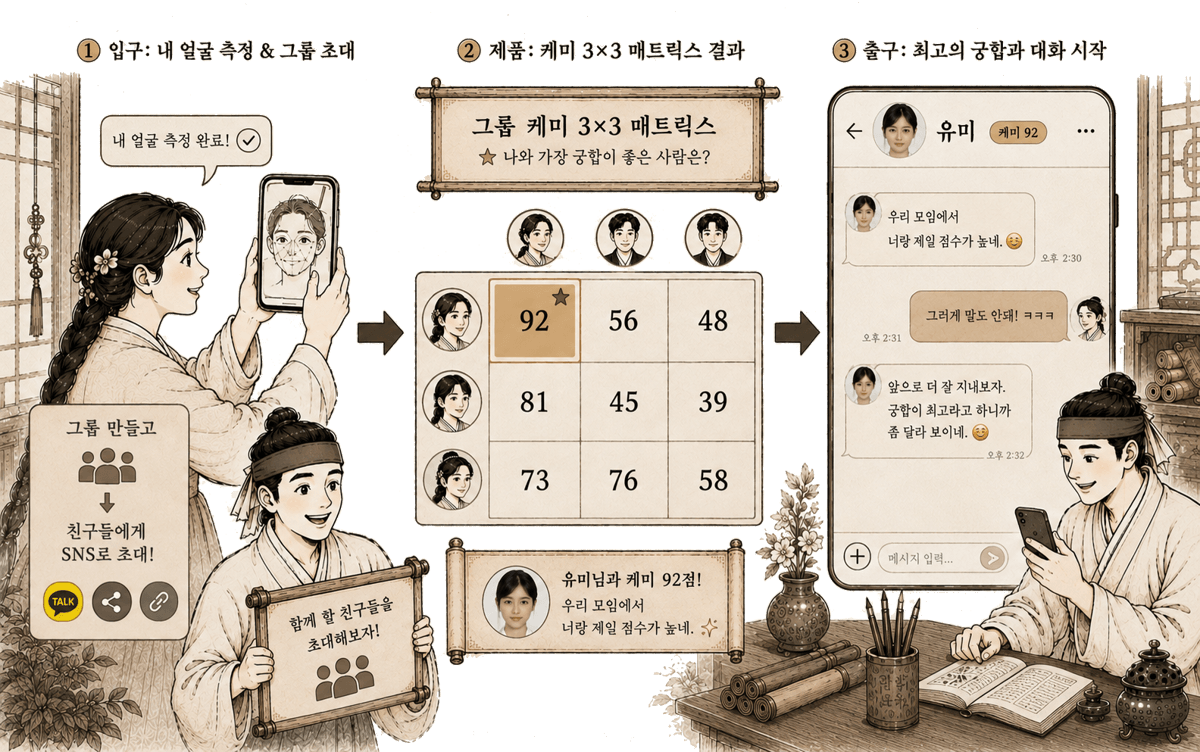
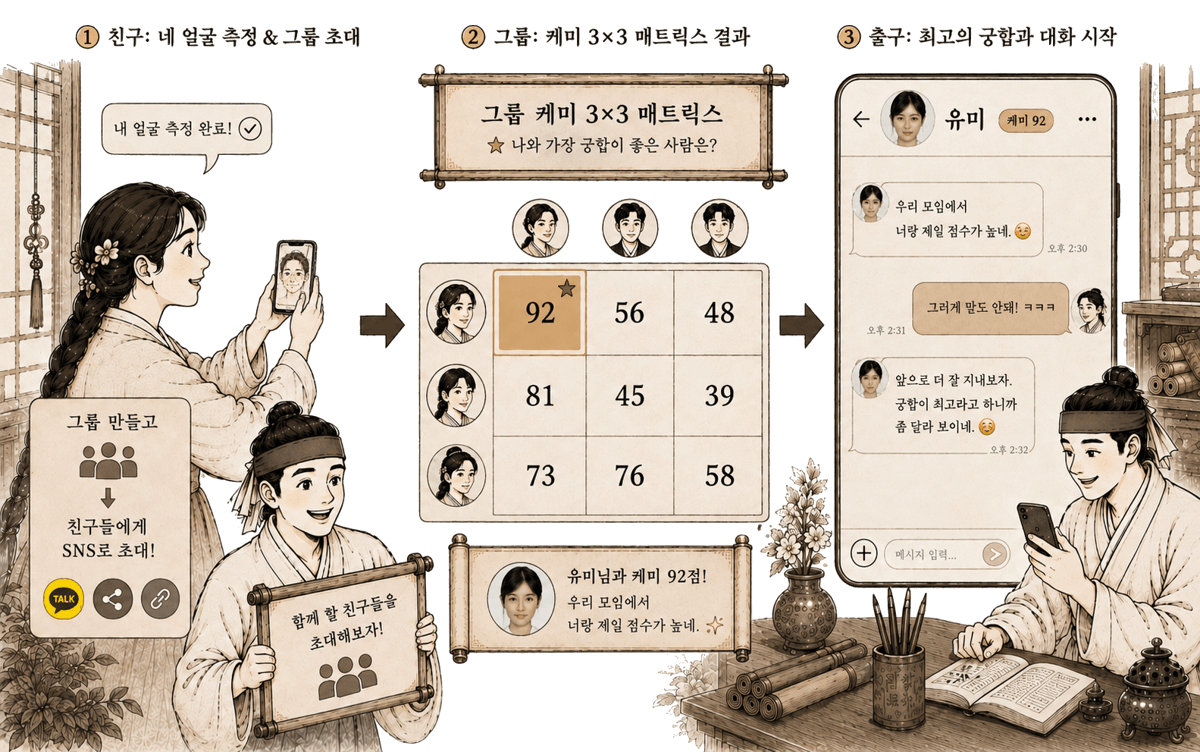
fix(온보딩): 원격 설정을 부팅 중에 미리 조회하고 짧게 기다린다
조회를 MainApp.initState 에서 시작하고 그 다음 프레임에 온보딩을 띄우고
있었다. 요청 시작과 화면 표시 사이가 1 프레임이라, 응답이 아무리 빨라도
첫 장의 제목·이미지가 fallback 으로 나갔다.

- 조회를 _bootstrap 의 initHive 뒤로 옮겨 남은 init 과 병렬로 돌린다
  (응답의 Hive 캐시 기록이 걸려 있어 initHive 뒤여야 한다).
- checkForceUpdate() 를 메모이즈 — 부팅과 강제 업그레이드 게이트가 같은
  Future 를 쓰므로 요청은 여전히 1회.
- AppConfigService.ready 노출. 온보딩은 표시 직전 500ms 만 기다리고,
  넘기면 그냥 띄운다 (네트워크에 인질로 잡지 않는다).

첫 장 이미지도 코퍼스 버전에 따라 갈린다 — v1 확정이면 onboarding0.png,
그 외에는 onboarding1.png (제목의 titleV1 과 같은 규칙).

diff --git a/flutter/lib/presentation/widgets/onboarding_intro.dart b/flutter/lib/presentation/widgets/onboarding_intro.dart
@@ -27,6 +27,7 @@ const _kPageColors = [
 const _kPages = [
   _OnboardingPageData(
     asset: 'assets/images/onboarding1.png',
+    assetV1: 'assets/images/onboarding0.png',
     title: '관상으로 풀어보는\n친구 만들기',
     titleV1: 'AI로 얼굴의 특징을 측정하고\n학문적으로 그 의미를 해석합니다.',
     body: '우리 그룹의 케미를 한눈에 보고\n새로운 대화의 계기를 만들어보세요.',
@@ -69,7 +70,8 @@ const double _kRevealVerticalPosition = 0.75;
 const double _kTopBarHeight = 48;
 
 /// 온보딩 안내 — 전체 흐름 → 관상 → 궁합 → 케미 4페이지 인트로.
-/// 이미지는 `onboarding1.png` ~ `onboarding4.png` 를 순서대로 쓴다.
+/// 이미지는 `onboarding1.png` ~ `onboarding4.png` 를 순서대로 쓰되, 코퍼스가
+/// v1 로 확정된 경우 첫 장만 `onboarding0.png` 로 갈린다 ([_OnboardingPageData.resolvedAsset]).
 /// `warm` 은 [_kPageColors] 의 짝을 따른다 — index 짝수(cream·shell)가 true,
 /// 홀수(흰 배경)가 false. **페이지를 재배열하면 이 교대를 다시 맞출 것.**
 /// MainApp 이 첫 프레임 뒤에 호출한다.
@@ -386,7 +388,7 @@ class _OnboardingPage extends StatelessWidget {
                   const EdgeInsets.symmetric(horizontal: _imageHInset),
               child: ClipRRect(
                 borderRadius: BorderRadius.circular(AppRadius.xl),
-                child: Image.asset(data.asset, fit: BoxFit.contain),
+                child: Image.asset(data.resolvedAsset, fit: BoxFit.contain),
               ),
             ),
           ),
@@ -437,6 +439,9 @@ class _OnboardingPage extends StatelessWidget {
 
 class _OnboardingPageData {
   final String asset;
+
+  /// v1 코퍼스일 때 [asset] 대신 쓰는 이미지. null 이면 버전과 무관하게 [asset].
+  final String? assetV1;
   final String title;
 
   /// v1 코퍼스일 때 [title] 대신 쓰는 제목. null 이면 버전과 무관하게 [title].
@@ -451,6 +456,7 @@ class _OnboardingPageData {
 
   const _OnboardingPageData({
     required this.asset,
+    this.assetV1,
     required this.title,
     this.titleV1,
     this.chips = const [],
@@ -461,10 +467,13 @@ class _OnboardingPageData {
   /// 원격 설정(`app_config.{ios,android}_narrative_version`)이 정한 코퍼스
   /// 버전에 맞는 제목. v1 제목은 v1 이라고 확인됐을 때만 쓴다 —
   /// 확정 전 기본값은 v2 다 (`AppConfigService.narrativeVersion`).
-  String get resolvedTitle =>
-      AppConfigService.instance.narrativeVersion == NarrativeVersion.v1
-          ? (titleV1 ?? title)
-          : title;
+  String get resolvedTitle => _isV1 ? (titleV1 ?? title) : title;
+
+  /// [resolvedTitle] 과 같은 규칙으로 고른 이미지.
+  String get resolvedAsset => _isV1 ? (assetV1 ?? asset) : asset;
+
+  static bool get _isV1 =>
+      AppConfigService.instance.narrativeVersion == NarrativeVersion.v1;
 }
 
 /// 무료·유료 표기 chip — §3.3 단일톤. 배경색 페이지 위에서도 보이도록

diff --git a/flutter/lib/data/services/app_config_service.dart b/flutter/lib/data/services/app_config_service.dart
@@ -23,12 +23,17 @@ class AppConfigService {
   NarrativeVersion? _narrativeVersion;
   bool _cacheRead = false;
 
+  /// 진행 중이거나 이미 끝난 조회. 호출부가 둘(부팅 · 강제 업그레이드 게이트)
+  /// 이라 요청이 두 번 나가지 않도록 첫 호출의 Future 를 재사용한다.
+  Future<ForceUpdateResult>? _check;
+
   /// 서술 코퍼스 버전. `checkForceUpdate()` 가 같은 조회에서 갱신한다.
   ///
-  /// 조회는 네트워크라 수백 ms 가 걸리는데 온보딩은 첫 프레임 직후에 뜬다
-  /// (`app.dart` 의 `addPostFrameCallback`). 마지막으로 받은 값을 Hive 에
-  /// 남겨 다음 실행부터 그 값으로 시작하지만, **최초 설치 직후 첫 실행**은
-  /// 캐시가 없어 어느 쪽인지 알 수 없다.
+  /// 조회는 네트워크라 수백 ms 가 걸린다. 부팅 중(`main.dart` 의 `_bootstrap`)
+  /// 에 미리 띄우고 온보딩은 표시 직전에 [ready] 를 짧게 기다리지만, 응답이
+  /// 그 예산을 넘기면 여전히 확정 전이다. 마지막으로 받은 값을 Hive 에 남겨
+  /// 다음 실행부터 그 값으로 시작하고, **최초 설치 직후 첫 실행**만 캐시가
+  /// 없어 어느 쪽인지 알 수 없다.
   ///
   /// 확정 전 기본값은 **v2** 다. v1 은 사진 속 상대의 앞으로의 행동을
   /// 단정하고 미래를 말하는 서술이라, 조회가 안 될 때 그쪽이 나가는 것이
@@ -61,9 +66,20 @@ class AppConfigService {
       ? CompatVersion.v2
       : CompatVersion.v1;
 
+  /// 조회가 끝날 때까지 (성공·실패 무관). 아직 시작 전이면 즉시 완료.
+  /// 원격 값에 따라 화면이 갈리는 곳이 조회를 짧게 기다릴 때 쓴다 —
+  /// 기다리는 쪽이 반드시 자기 타임아웃을 걸 것. 이 Future 자체는
+  /// [checkForceUpdate] 의 2초 예산이 끝나야 완료된다.
+  Future<void> get ready async {
+    await _check;
+  }
+
   /// 내 buildNumber < 플랫폼별 min_build 면 required=true.
   /// 조회 실패·타임아웃은 fail-open (네트워크 사정으로 앱을 잠그지 않는다).
-  Future<ForceUpdateResult> checkForceUpdate() async {
+  /// 두 번째 호출부터는 첫 호출의 결과를 그대로 돌려준다 (요청 1회).
+  Future<ForceUpdateResult> checkForceUpdate() => _check ??= _fetch();
+
+  Future<ForceUpdateResult> _fetch() async {
     const pass = (required: false, notice: null);
     try {
       final row = await Supabase.instance.client
@@ -104,11 +120,12 @@ class AppConfigService {
     }
   }
 
-  /// 테스트 전용 — 메모리 상태만 날려 "다음 실행" 을 흉내 낸다.
+  /// 테스트 전용 — 메모리 상태(조회 결과 포함)만 날려 "다음 실행" 을 흉내 낸다.
   @visibleForTesting
   void debugResetNarrativeVersion() {
     _narrativeVersion = null;
     _cacheRead = false;
+    _check = null;
   }
 
   /// 테스트 전용 — 원격 row 적용 경로를 네트워크 없이 부른다.

diff --git a/flutter/test/onboarding_narrative_variant_test.dart b/flutter/test/onboarding_narrative_variant_test.dart
@@ -1,0 +1,64 @@
+// 온보딩 첫 장 — 원격 코퍼스 버전에 따라 제목과 이미지가 갈린다.
+// v1 확정이면 onboarding0.png, 그 외(v2·확정 전)는 onboarding1.png.
+//
+// 실행: flutter test test/onboarding_narrative_variant_test.dart
+
+import 'package:flutter/material.dart';
+import 'package:flutter_test/flutter_test.dart';
+
+import 'package:facely/data/services/app_config_service.dart';
+import 'package:facely/presentation/widgets/onboarding_intro.dart';
+
+Set<String> _assets(WidgetTester tester) => tester
+    .widgetList<Image>(find.byType(Image))
+    .map((i) => i.image)
+    .whereType<AssetImage>()
+    .map((i) => i.assetName)
+    .toSet();
+
+Future<void> _openIntro(WidgetTester tester) async {
+  await tester.pumpWidget(
+    MaterialApp(
+      home: Builder(
+        builder: (ctx) => Scaffold(
+          body: TextButton(
+            onPressed: () => showOnboardingIntro(ctx),
+            child: const Text('open'),
+          ),
+        ),
+      ),
+    ),
+  );
+  await tester.tap(find.text('open'));
+  for (var i = 0; i < 5; i++) {
+    await tester.pump(const Duration(milliseconds: 200));
+  }
+}
+
+void main() {
+  tearDown(() => AppConfigService.instance.debugResetNarrativeVersion());
+
+  testWidgets('확정 전(=v2 기본값) — onboarding1.png', (tester) async {
+    await _openIntro(tester);
+    expect(_assets(tester), contains('assets/images/onboarding1.png'));
+    expect(_assets(tester), isNot(contains('assets/images/onboarding0.png')));
+  });
+
+  testWidgets('v1 확정 — onboarding0.png', (tester) async {
+    AppConfigService.instance.debugApplyNarrativeVersion(
+      {'android_narrative_version': 1, 'ios_narrative_version': 1},
+    );
+    await _openIntro(tester);
+    expect(_assets(tester), contains('assets/images/onboarding0.png'));
+    expect(_assets(tester), isNot(contains('assets/images/onboarding1.png')));
+  });
+
+  testWidgets('v2 확정 — onboarding1.png', (tester) async {
+    AppConfigService.instance.debugApplyNarrativeVersion(
+      {'android_narrative_version': 2, 'ios_narrative_version': 2},
+    );
+    await _openIntro(tester);
+    expect(_assets(tester), contains('assets/images/onboarding1.png'));
+    expect(_assets(tester), isNot(contains('assets/images/onboarding0.png')));
+  });
+}

diff --git a/flutter/lib/app.dart b/flutter/lib/app.dart
@@ -24,6 +24,10 @@ import 'package:facely/presentation/screens/update_gate_screen.dart';
 import 'package:facely/presentation/widgets/ad_banner_dialog.dart';
 import 'package:facely/presentation/widgets/onboarding_intro.dart';
 
+/// 온보딩을 띄우기 전에 원격 설정 응답을 기다려 주는 최대 시간.
+/// 첫 프레임 뒤에 뜨는 모달이라 이 정도 지연은 눈에 띄지 않는다.
+const Duration _kRemoteConfigWait = Duration(milliseconds: 500);
+
 class MainApp extends ConsumerStatefulWidget {
   const MainApp({super.key});
 
@@ -45,6 +49,8 @@ class _MainAppState extends ConsumerState<MainApp> {
     super.initState();
     // 강제 업그레이드 게이트 — min_build 미달이면 닫을 수 없는 화면으로
     // 전부 덮는다 (딥링크 cold-start 도 MainApp 이 먼저 mount 되므로 관통).
+    // 조회 자체는 부팅 중에 이미 시작됐다 (`main.dart` 의 `_bootstrap`) —
+    // 여기서는 그 결과를 받아 쓴다.
     AppConfigService.instance.checkForceUpdate().then((r) {
       if (!mounted || !r.required) return;
       Navigator.of(context, rootNavigator: true).push(
@@ -85,6 +91,12 @@ class _MainAppState extends ConsumerState<MainApp> {
     if (prefs.get(kOnboardingNeverAgainKey) != null) return;
     // 내 관상이 등록돼 있으면 온보딩의 목적이 끝난 것 — 노출 종료.
     if (ref.read(historyProvider).any((r) => r.isMyFace)) return;
+    // 온보딩 첫 장의 제목·이미지는 원격 코퍼스 버전에 따라 갈린다. 조회는
+    // 부팅 중에 시작되지만 아직 안 왔을 수 있어 잠깐만 기다린다 — 넘기면
+    // 그냥 띄운다 (온보딩을 네트워크에 인질로 잡지 않는다).
+    await AppConfigService.instance.ready
+        .timeout(_kRemoteConfigWait, onTimeout: () {});
+    if (!mounted) return;
     final result = await showOnboardingIntro(context);
     if (!mounted) return;
     switch (result) {

diff --git a/flutter/test/app_config_narrative_cache_test.dart b/flutter/test/app_config_narrative_cache_test.dart
@@ -8,6 +8,8 @@
 // 실행:
 //   flutter test test/app_config_narrative_cache_test.dart
 
+import 'dart:async';
+
 import 'package:flutter_test/flutter_test.dart';
 import 'package:hive_ce_flutter/hive_ce_flutter.dart';
 
@@ -76,6 +78,27 @@ void main() {
     // 다음 실행 흉내 — 메모리 상태만 날린다.
     AppConfigService.instance.debugResetNarrativeVersion();
     expect(AppConfigService.instance.narrativeVersion, NarrativeVersion.v2);
+  });
+
+  test('조회는 한 번만 — 부팅과 강제 업그레이드 게이트가 같은 Future 를 쓴다', () {
+    // 부팅(main.dart) 이 먼저 띄우고 MainApp.initState 가 결과를 받아 쓴다.
+    // 두 호출이 각각 요청을 내면 앱 시작마다 원격 조회가 두 번 나간다.
+    final first = AppConfigService.instance.checkForceUpdate();
+    expect(identical(AppConfigService.instance.checkForceUpdate(), first),
+        isTrue);
+  });
+
+  test('ready — 조회 전에는 즉시, 시작 뒤에는 조회가 끝나야 완료', () async {
+    var done = false;
+    // 아무도 조회를 시작하지 않았으면 기다릴 것이 없다.
+    await AppConfigService.instance.ready;
+
+    final check = AppConfigService.instance.checkForceUpdate();
+    unawaited(AppConfigService.instance.ready.then((_) => done = true));
+    expect(done, isFalse, reason: '조회가 끝나기 전에는 완료되면 안 된다');
+    await check;
+    await Future<void>.delayed(Duration.zero);
+    expect(done, isTrue);
   });
 
   test('원격이 1 로 내려오면 캐시도 1 로 덮인다', () async {

diff --git a/flutter/lib/main.dart b/flutter/lib/main.dart
@@ -6,6 +6,7 @@ import 'package:facely/core/storage/thumbnail_paths.dart';
 import 'package:facely/core/theme.dart';
 import 'package:facely/data/services/admob_service.dart';
 import 'package:facely/data/services/analytics_service.dart';
+import 'package:facely/data/services/app_config_service.dart';
 import 'package:facely/data/services/auth_service.dart';
 import 'package:facely/data/services/coin_service.dart';
 import 'package:facely/data/services/deep_link_service.dart';
@@ -69,6 +70,11 @@ Future<void> _bootstrap() async {
     ),
   );
   await initHive();
+  // 원격 설정(app_config) — 응답 없이는 온보딩 문구·이미지가 fallback 으로
+  // 나가므로 부팅 대기 시간에 미리 띄워 남은 init 과 겹쳐 돌린다. 응답의
+  // Hive 캐시 기록이 걸려 있어 initHive 뒤에서 시작한다. 결과 소비는
+  // `app.dart` 의 강제 업그레이드 게이트와 온보딩(AppConfigService.ready).
+  unawaited(AppConfigService.instance.checkForceUpdate());
   await ThumbnailPaths.initCache();
   await AuthService().initialize();
   // 딥링크 pending 은 MainApp build 이전에 준비돼야 initState 가 회수 가능 —
